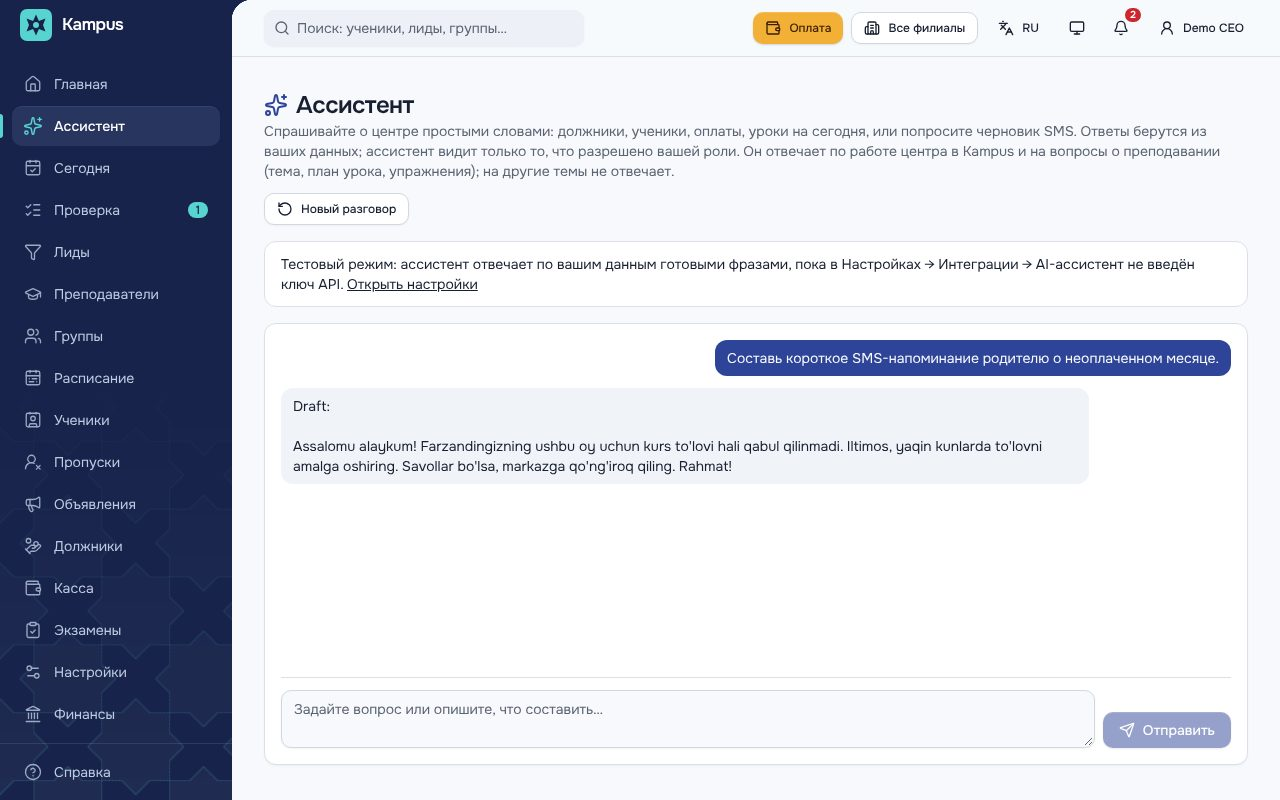
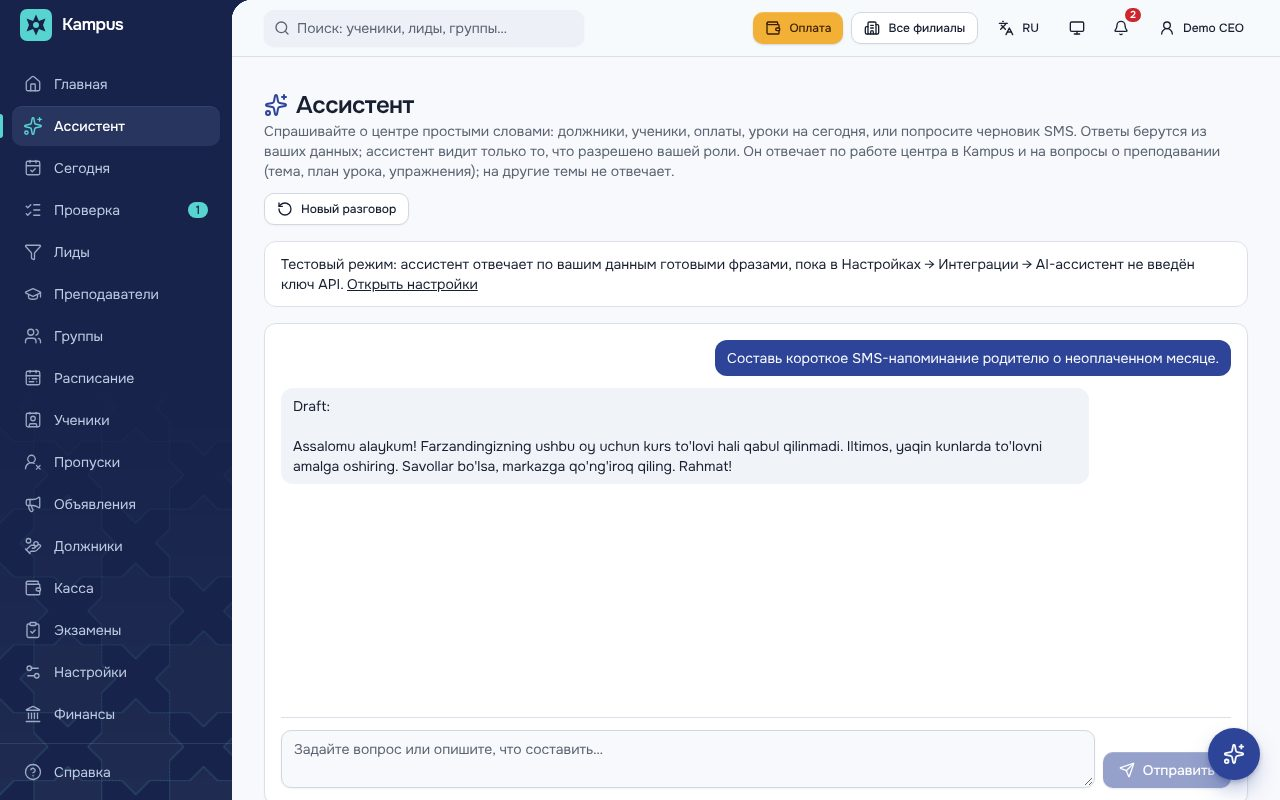
Help pictures of the assistant on the new look; badge test independent of the day of the month
The three assistant pictures per language are retaken on top of the new look
merged from main, so the manual shows the round button and the panel as they
are now.

tests/unit/badges.test.ts started its group 20 days ago and expected a
perfect month from the first twelve daily lessons. On the 14th to 16th after
a 31-day month those lessons fall 7, 6 or 5 into one month and the rest into
the next, so neither month reaches the eight the badge needs and the test
fails. The group now starts on the first day of that month, which keeps all
twelve lessons in one calendar month on every day of the year.

Claude-Session: https://claude.ai/code/session_01Wpp7A8Dy2Sr713RD5WnCdW

Changed region(s): [[0.2188, 0.875, 0.4688, 0.9688], [0.8438, 0.875, 1.0, 1.0]]

diff --git a/tests/unit/badges.test.ts b/tests/unit/badges.test.ts
@@ -41,6 +41,14 @@ const shift = (n: number) => {
   d.setUTCDate(d.getUTCDate() + n);
   return iso(d);
 };
+/*
+ * The group starts on the first day of the month that held the day 20 days
+ * ago. Its first twelve daily lessons are then all over and sit in one
+ * calendar month, whatever today is; the perfect-month badge counts by
+ * calendar month, and a start of "20 days ago" split them 7 and 5 across two
+ * months on the 14th to 16th after a 31-day month.
+ */
+const START = `${shift(-20).slice(0, 7)}-01`;
 const ITEMS: ExerciseItem[] = [
   { kind: "CHOICE", prompt: "Pick the fruit", options: ["Apple", "Car"], correct: [0] },
   { kind: "TRUE_FALSE", prompt: "Berlin is in Germany", correct: true },
@@ -117,7 +125,7 @@ beforeAll(async () => {
         roomId: null,
       })),
       teachers: [{ userId: teacher.userId, role: "MAIN", shareType: "PERCENT", shareValue: 0 }],
-      startDate: shift(-20),
+      startDate: START,
       endDate: null,
       status: "ACTIVE",
     })
@@ -133,7 +141,7 @@ beforeAll(async () => {
     sourceId: null,
     schoolId: null,
     note: null,
-    membership: { groupId, joinedAt: shift(-20), customPrice: null, note: null, status: "ACTIVE" },
+    membership: { groupId, joinedAt: START, customPrice: null, note: null, status: "ACTIVE" },
   });
   const link = (await listStudentLinks(ceo, groupId)).find((l) => l.studentId === s.id)!;
   anna = { studentId: s.id, membershipId: link.membershipId, token: link.token };
